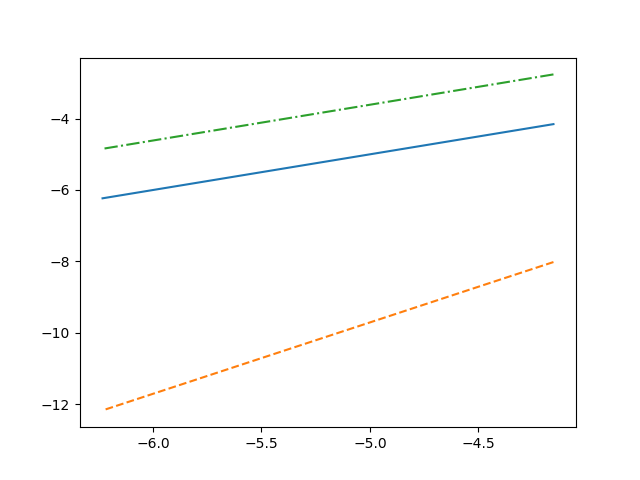
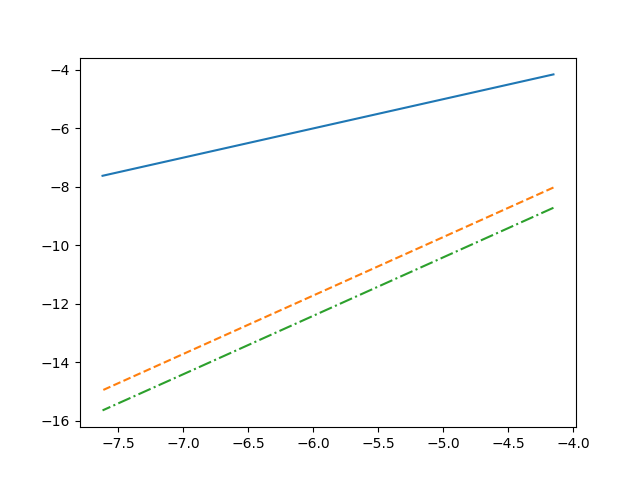
3rd hw

diff --git a/sem3.py b/sem3.py
@@ -1,0 +1,101 @@
+import matplotlib.pyplot as mpl
+import math as m
+import numpy as np
+import random as rnd
+
+def m_func(x):
+
+    return m.cos(x)
+
+eps = 0.001
+
+def bin_search(f, start, end):
+
+    if (end - start) < eps: return start + (start + end)/2
+
+    if abs(f(start)) < eps:  return start
+
+    if abs(f(end)) < eps:    return end
+    
+    if f(start)*f(end) < 0 or abs(end - start)/2 > eps:
+
+        x1 = bin_search(f, start, (start + end)/2)
+        x2 = bin_search(f, (start + end)/2, end)
+
+        if abs(f(x2)) < eps and abs(f(x1)) < eps and abs(x2 - x1) > eps: print (x1, x2)
+        if abs(f(x1)) < eps:    
+            
+            return x1
+
+        if abs(f(x2)) < eps:
+            
+            return x2
+
+        return x1
+
+    else:   return start + (end - start)/2
+
+m_start = 0
+m_end = 2
+
+print( bin_search(m_func, m_start, m_end))
+
+def my_square(p, a):
+
+    x_0 = a/2
+
+    def pos(x, p, a):
+
+        x_n = x - (x**p - a)/(p*(x**p)) 
+
+        return x_n
+
+    for i in range(1000):
+
+        x_0 = pos(x_0, p, a)
+
+    return x_0
+
+
+print( my_square(3, 2))
+
+m_end = 5
+
+m_func = lambda x: (m.exp(-x) - m.sin(x))
+
+m_diff = lambda x: (-m.exp(-x) - m.cos(x))
+
+def Newton( m_func, m_diff, a):
+
+
+    x_0 = a
+    x_1 = 0
+    x_2 = 0
+
+    def pos(x):
+
+        x_n = x - m_func(x)/m_diff(x) 
+
+        return x_n
+
+    for i in range(100):
+
+        x = x_0
+        x_0 = pos(x_0)
+        m_x = x_0
+
+        if ( x_1 - x ) != 0:
+
+            x_2 = x_1
+            x_1 = x
+
+    return x_0, (x_2 - m_x)/(x_2 - x_1)
+
+print(bin_search(m_func, m_start, m_end))
+print(Newton( m_func, m_diff, m_start), Newton( m_func, m_diff, m_end/2), sep= ', ')
+
+
+m_func = lambda x: x*m.sin(x)
+m_diff = lambda x: x*m.cos(x) + m.sin(x)
+
+print(Newton( m_func, m_diff, 0.05)[0], round(Newton( m_func, m_diff, 0.05)[1]) )

diff --git a/sem1.py b/sem1.py
@@ -1,5 +1,6 @@
 import matplotlib.pyplot as mpl
 import math as m
+import numpy as np
 
 def dif_h1(func, h):
 
@@ -39,8 +40,8 @@ def dif_2_h2(func, h):
         dif_i = (func[i - 1] + func[i + 1] - 2*func[i])/(h*h)
         dif.append(dif_i)
 
-    dif_0 = (2*func[0] - 5*func[1] + 4*func[2] - func[3])/(2*h*h)
-    dif_n = (-2*func[-1] + 5*func[-2] - 4*func[-3] + func[-4])/(2*h)
+    dif_0 = (-2*func[0] + 5*func[1] - 4*func[2] + func[3])/(h*h)
+    dif_n = (2*func[-1] - 5*func[-2] + 4*func[-3] - func[-4])/(h*h)
     dif = [dif_0] + dif + [dif_n]
 
     return dif
@@ -55,7 +56,7 @@ def m_dif(x):
 
 def m_dif_2(x):
 
-    return - 4*m.cos(x)*m.sin(x)
+    return -4*m.cos(x)*m.sin(x)
 
 def main(h, num):
 
@@ -93,7 +94,7 @@ dif_h2_lst = []
 dif_2_lst = []
 
 
-for i in range(4):
+for i in range(6):
 
     h = m.pi/num
     dif_h_1, dif_h_2, dif_2 = main(h, num)
@@ -105,5 +106,11 @@ for i in range(4):
 
 fig, ax = mpl.subplots()
 ax.plot(h_lst, dif_h1_lst, '-', h_lst, dif_h2_lst, '--', h_lst, dif_2_lst, '-.')
+k, b = np.polyfit(h_lst, dif_h1_lst, 1)
+print(k, b)
+k, b = np.polyfit(h_lst, dif_h2_lst, 1)
+print(k, b)
+k, b = np.polyfit(h_lst, dif_2_lst, 1)
+print(k, b)
 mpl.savefig("plot")
     

diff --git a/sem2.py b/sem2.py
@@ -140,12 +140,12 @@ b_0 = eps**3 / 3
 m_func = lambda x: 1/m.sqrt(x)
 
 num = 200
-
 end = b_0
 start = 0
 integral_part1 = integral_right_rec(m_func, num)
 start = b_0
 end = 1
 integral_part2 = integral_right_rec(m_func, num)
-integral = integral_part1 + integral_part2
-print("Несобственный интеграл", integral)
+integral = integral_part2
+ref = 2
+print("Несобственный интеграл", integral, 2)
